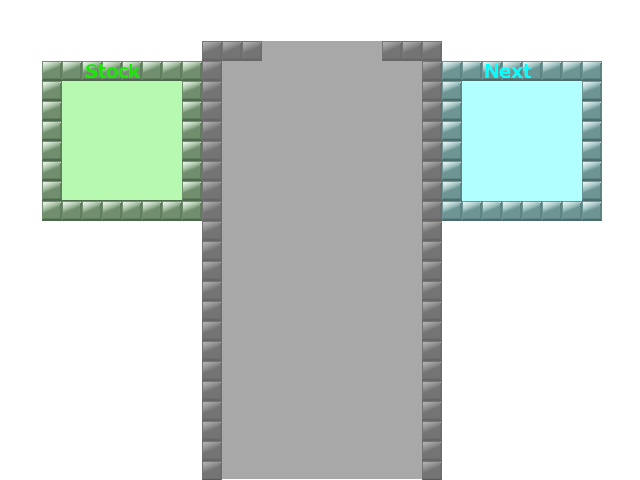
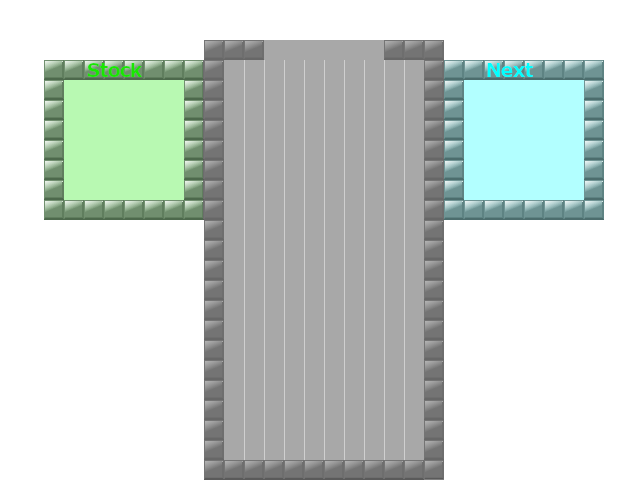
3/31配信分

diff --git a/src/gf/GameScene.js b/src/gf/GameScene.js
@@ -35,6 +35,18 @@ class GameScene extends Scene {
 	 */
 	field = null;
 
+	/**
+	 * ゲームオーバー時の背景ストック
+	 */
+	bg = null;
+
+	/**
+	 * レベル
+	 */
+	lv = 0;
+
+	score = 0;
+
 	constructor() {
 		super();
 		this.img_bg = this.addResImage('./img/gamelayer.png');
@@ -50,14 +62,15 @@ class GameScene extends Scene {
 		this.next.createNext();
 
 		this.stock = new tetrimino();
-		this.stock.offset_x = 102;
+		this.stock.offset_x = 82;
 		this.stock.offset_y = 81 + 20;
 
 		this.player = new player();
-		this.player.offset_x = 222;
+		this.player.offset_x = 224;
 		this.player.offset_y = 61;
-		this.player.setMino( this.next.copy() );
-		this.next.createNext();
+		this.setNextMino( true );
+
+		this.bg = null;
 	}
 
 	timerProc() {
@@ -84,24 +97,59 @@ class GameScene extends Scene {
 
 			case game_mode_play:
 				break;
+
+			case game_mode_gameover:
+				this.step ++;
+				if( this.step >= 500 ) {
+					//タイトルシーンへ遷移
+					gf.setScene( new TitleScene() )
+				}
+				break;
 		}
 	}
 
-	setNextMino() {
-		//プレイヤーブロックをフィールドにセット
-		let lines = this.field.setPlayer( this.player );
-		//TODO:得点加算
+	/**
+	 * 次のテトリスミノを生成
+	 */
+	setNextMino( flag = false) {
+		if( flag == false ) {
+			//プレイヤーブロックをフィールドにセット
+			let lines = this.field.setPlayer( this.player );
+			if( lines.length > 0 ) {
+				this.score += lines.length * 10;
+				//TODO:LVの設定
+				this.lv = Math.floor( this.score / 10 );
+				this.player.limit_now = 500 - this.score;
+			}
+		}
 		//次のブロックをプレイヤーにセット
 		this.player.setMino( this.next.copy() );
 		this.player.clearDown();
 		//ゲームオーバチェック
 		if( this.field.checkMove(this.player,5) == false ){
-			//TODO:ゲームオーバー処理
+			//ゲームオーバー処理
 			this.setMode( game_mode_gameover );
-			alert('game over');
 		}
 
 		this.next.createNext();
+		this.next.offset_x = 462 + 60 - ( this.next.getWidth() / 2 * 20);
+	}
+
+	setStock() {
+		let swap = this.stock.copy();
+
+		this.stock.setBlockBuff( this.player.mino.block, this.player.mino.buff, this.player.mino.type );
+		this.stock.offset_x = 62 + 60 - ( this.stock.getWidth() / 2 * 20 );
+
+		if( swap.block ) {
+			//Swapがある場合は、StockとPlayerのミノを入れ替える
+			this.player.setMino( swap );
+		} else {
+			//Swapがない場合は、次のミノを生成する
+			this.player.setMino( this.next.copy() );
+			this.next.createNext();
+			this.next.offset_x = 462 + 60 - ( this.next.getWidth() / 2 * 20);
+		}
 	}
 
 	render( context ) {
@@ -112,6 +160,10 @@ class GameScene extends Scene {
 
 			case 1:
 				this.button_wait( context );
+				break;
+
+			case game_mode_gameover :
+				this.game_over( context );
 				break;
 		}
 	}
@@ -141,6 +193,11 @@ class GameScene extends Scene {
 				case "Space":
 					this.player.dropDown( this.field );
 					this.setNextMino();
+					break;
+
+				case "ControlRight":
+				case "ControlLeft":
+					this.setStock();
 					break;
 			}
 		}
@@ -176,12 +233,41 @@ class GameScene extends Scene {
 		context.drawImage( this.getResImage( this.img_bg ), 0, 0 );
 
 		let img_bock = this.getResImage( this.img_block);
+
+		this.stock.draw( context, img_bock );
 		this.next.draw( context, img_bock );
 		this.player.draw( context, img_bock );
 		this.field.draw( context, img_bock );
 
+		//スコアの描画
+		context.font = "24px MeirioUi";
+		context.fillStyle = "rgb( 0, 0, 0 )";
+		context.fillText("SCORE: "+ this.score, 10, 24);
+
 		if( this.step < 125  ) {
 			context.drawImage( this.getResImage( this.img_btnSpace ), 320-50, 240 );
 		}
+	}
+
+	/**
+	 * 
+	 * @param {context} context 
+	 */
+	game_over ( context ) {
+		if( this.bg == null ) {
+			this.bg = context.getImageData( 0, 0, 640, 480 );
+		}
+
+		//背景初期化
+		context.putImageData( this.bg, 0, 0 );
+
+		context.globalAlpha =  (1.0/500) * this.step;
+		context.fillStyle = "rgb( 80, 80, 80 )";
+		context.fillRect( 0, 120, 640, 240 );
+
+
+		context.font = "84px MeirioUi";
+		context.fillStyle = "rgb( 255, 255, 255 )";
+		context.fillText("Game Over", 100, 260);
 	}
 }

diff --git a/src/gf/libs/tetromino.js b/src/gf/libs/tetromino.js
@@ -1,0 +1,100 @@
+/**
+ * 
+ */
+const minoType_none = 0;
+const minoType_i = 1;
+const minoType_o = 2;
+const minoType_s = 3;
+const minoType_z = 4;
+const minoType_j = 5;
+const minoType_l = 6;
+const minoType_t = 7;
+
+class tetromino  {
+	/**
+	 * テトリスミノデータ
+	 */
+	block = null;
+
+	/**
+	 * 描画用データ:回転とかかけるのでバッファを活用
+	 */
+	buff = null;
+
+	rotate = 0;
+
+	constructor() {
+		this.block = null;
+		this.buff = null;
+		this.rotate = rotate_none;
+	}
+
+	/**
+	 * テトリスミノを生成
+	 */
+	static factory( type ) {
+		let block = null;
+		if( type == null || type == undefined ) {
+			type = Math.floor( Math.random() * 7 );
+		}
+
+		switch( tyep ) {
+			case minoType_i:
+				block = new block( 1, 4);
+				block.fill( minoType_i );
+				break;
+
+			case minoType_o:
+				block = new block( 2, 2);
+				block.fill( minoType_o );
+				break;
+
+			case minoType_s:
+				block = new block( 3, 2);
+				let n = minoType_s;
+				block.setArray( [
+					 0, n, n,
+					 n, n, 0
+				 ] );
+				break;
+
+			case minoType_z:
+				block = new block( 3, 2);
+				let n = minoType_z;
+				block.setArray( [
+					 n, n, 0,
+					 0, n, n
+				 ] );
+				break;
+
+			case minoType_j:
+				block = new block( 3, 2);
+				let n = minoType_j;
+				block.setArray( [
+					 n, 0, 0,
+					 n, n, n
+				 ] );
+				break;
+
+			case minoType_l:
+				block = new block( 3, 2);
+				let n = minoType_l;
+				block.setArray( [
+					 0, 0, n,
+					 n, n, n
+				 ] );
+				break;
+
+			case minoType_t:
+				block = new block( 3, 2);
+				let n = minoType_t;
+				block.setArray( [
+					 0, n, 0,
+					 n, n, n
+				 ] );
+				break;
+		}
+
+		return block;
+	}
+}

diff --git a/src/gf/libs/field.js b/src/gf/libs/field.js
@@ -1,14 +1,14 @@
 /**
- * 
+ * フィールドコントロールクラス
  */
 class field extends block {
 	offset_x = 0;
 	offset_y = 0;
 
 	constructor() {
-		super( 10, 21 );
+		super( 10, 20 );
 
-		this.offset_x = 222;
+		this.offset_x = 224;
 		this.offset_y = 61;
 	}
 
@@ -28,7 +28,6 @@ class field extends block {
 
 		//消す行検出、行を消す
 		let lines = this.checkLine();
-		//TODO::得点加算
 		this.removeLine( lines );
 
 		return lines;
@@ -114,11 +113,16 @@ class field extends block {
 				this.node[ x + (line * this.width )] = mino_none;
 			}
 			//行を詰める
-			for( let y = line; y > 1; y -- ) {
+			for( let y = line; y > 0; y -- ) {
 				for( let x = 0; x < this.width; x ++ ) {
 					this.node[ x + ( y * this.width) ] = this.node[ x + ( (y-1) * this.width)];
 				}
 			}
+		}
+
+		//一番上の行を0クリアする
+		for( let n = 0; n < this.width; n ++ ){
+			this.node[ n ] = mino_none;
 		}
 	}
 

diff --git a/src/gf/libs/tetrimino.js b/src/gf/libs/tetrimino.js
@@ -70,8 +70,8 @@ class tetrimino {
 	 */
 	copy(){
 		let ret = new tetrimino();
-		ret.block = this.block.copy();
-		ret.buff = this.buff.copy();
+		if( this.block ) ret.block = this.block.copy();
+		if( this.buff ) ret.buff = this.buff.copy();
 		ret.rotate = this.rotate;
 		ret.x = this.x;
 		ret.y = this.y;
@@ -89,6 +89,12 @@ class tetrimino {
 		this.type = Math.floor( Math.random() * 6 ) + 1;
 		this.block = tetrimino.factory( this.type );
 		this.buff = this.block.copy();
+	}
+
+	setBlockBuff( block, buff, type ) {
+		this.block = block;
+		this.buff = buff;
+		this.type = type;
 	}
 
 	/**
@@ -215,6 +221,8 @@ class tetrimino {
 		let hi = 20;
 		let dx = 20;
 		let dy = ( this.type - 1 ) * hi;
+
+		if( this.buff == null ) return;
 
 		for( let y = 0; y < this.buff.height; y ++ ){
 			for( let x = 0; x < this.buff.width; x ++ ) {
